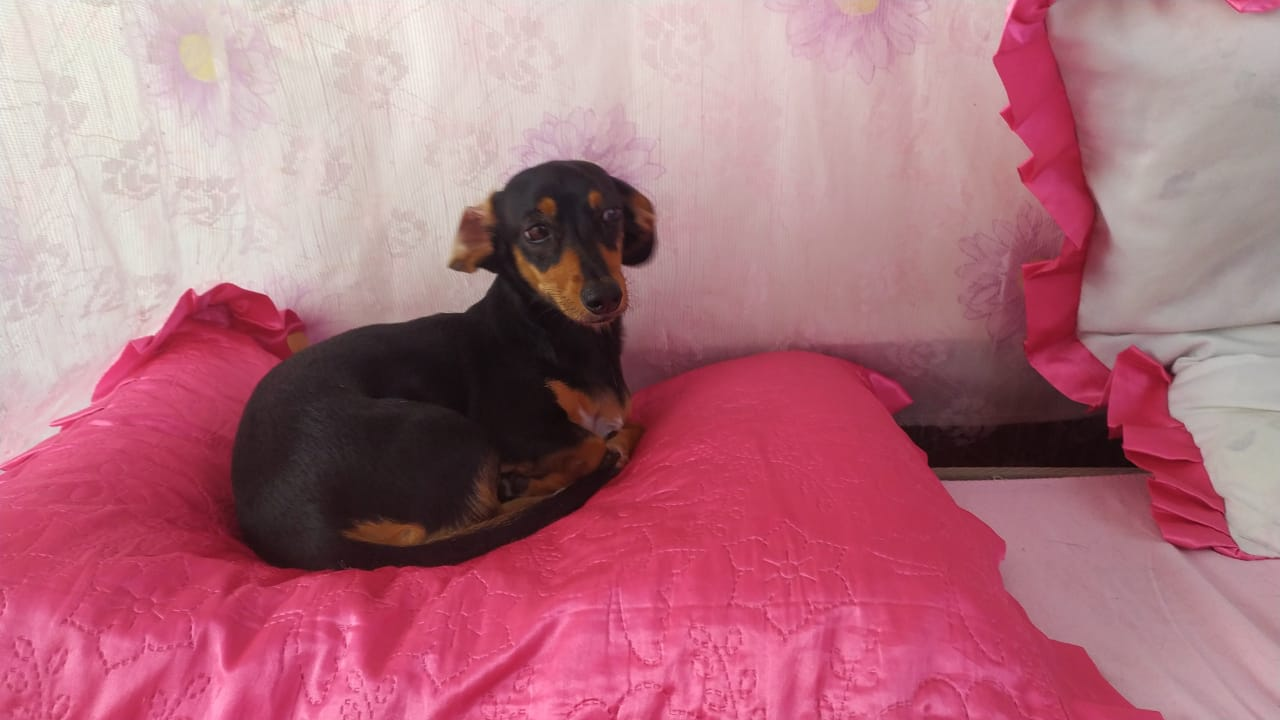
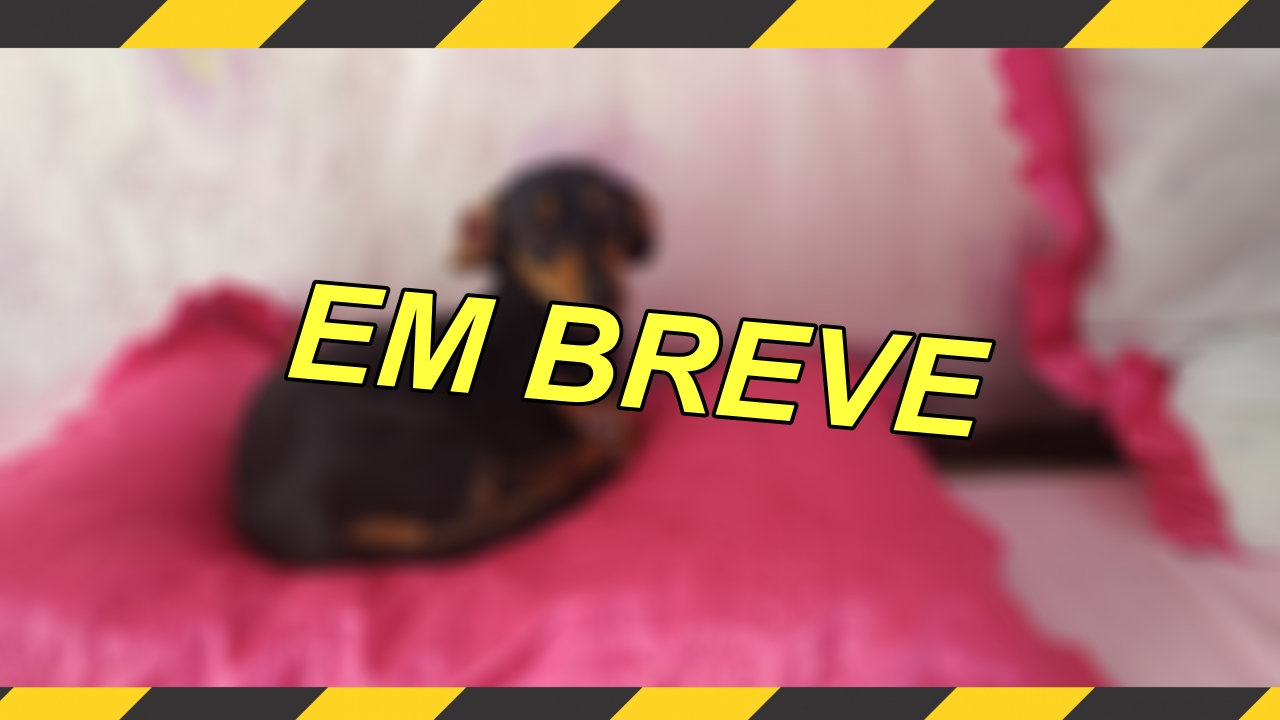
Atualização 3.0
Adicionado;

Nova imagem para " EM BREVE "
Adicionado o media quere para tablets

diff --git a/index.html b/index.html
@@ -18,28 +18,35 @@
         </ul>
     </nav>
     <section id="inicio">
-        <h1> Quem é Esdras Carneiro? </h1>
-        <p> Bem vindo ao meu site, meu nome é Esdras, tenho 16 anos, sou de Conceição do Coité - BA, e sou estudante do
-            2° ano do ensino médio. </p>
-        <p class="seg-p">No entanto, estudo desenvolvimento de software, meu primeiro contato com programação foi com LUA, que começou por diversão e acabei tomando gosto pela área e atualmente estudo desenvolvimento web. </p>
+        <article>
+            <h1> Quem é Esdras Carneiro? </h1>
+            <p> Bem vindo ao meu site, meu nome é Esdras, tenho 16 anos, sou de Conceição do Coité - BA, e sou estudante
+                do 2° ano do ensino médio. </p>
+            <p class="seg-p">No entanto, estudo desenvolvimento de software, meu primeiro contato com programação foi
+                com LUA, que começou por diversão e acabei tomando gosto pela área e atualmente estudo desenvolvimento
+                web. </p>
+        </article>
         <img src="assets/esdras-picture.png" alt="Rosto de Esdras Carneiro">
     </section>
     <section id="projetos">
         <h2> Projetos </h2>
-        <article class="projeto">
-            <img src="assets/Quis.jpg" alt="projeto 1">
-            <h3> Projeto 1 </h3>
-            <p>Lorem ipsum dolor sit amet consectetur adipisicing elit. Culpa, corporis? Consequuntur praesentium,
-                dignissimos voluptatibus, ex ab alias fugiat ducimus molestiae nulla unde blanditiis dolore tempore
-                laborum similique laboriosam doloremque amet!</p>
-        </article>
-        <article class="projeto">
-            <img src="assets/Quis.jpg" alt="projeto 2">
-            <h3> Projeto 2 </h3>
-            <p>Lorem ipsum dolor sit amet consectetur adipisicing elit. Quod quibusdam porro nulla vel minima, placeat
-                eius corporis earum molestiae ab doloribus neque quasi blanditiis in quas iste, eaque, mollitia enim?
-            </p>
-        </article>
+        <div id="container-projetos">
+            <article class="projeto">
+                <img src="assets/Quis.jpg" alt="projeto 1">
+                <h3> Projeto 1</h3>
+                <p> Lorem ipsum dolor sit amet consectetur adipisicing elit. Quod quibusdam porro nulla vel minima,
+                    placeateius corporis earum molestiae ab doloribus neque quasi blanditiis in quas iste, eaque,
+                    mollitia enim?</p>
+            </article>
+            <article class="projeto">
+                <img src="assets/Quis.jpg" alt="projeto 2">
+                <h3> Projeto 2 </h3>
+                <p>Lorem ipsum dolor sit amet consectetur adipisicing elit. Quod quibusdam porro nulla vel minima,
+                    placeateius corporis earum molestiae ab doloribus neque quasi blanditiis in quas iste, eaque,
+                    mollitia enim?
+                </p>
+            </article>
+        </div>
     </section>
     <section id="redes">
         <h2> Redes Sociais </h2>
@@ -48,7 +55,8 @@
                 <li> <img class="icone" src="assets/github.png"> <strong>Git Hub:</strong> <a
                         href="https://github.com/EsdrasAslc" target="_blank"> @EsdrasAslc</a> </li>
                 <li> <img class="icone" src="assets/linkedin.png"> <strong>Linkedin:</strong> <a
-                        href="https://www.linkedin.com/in/esdras-carneiro-3a7800210/" target="_blank"> @Esdras Carneiro</a></li>
+                        href="https://www.linkedin.com/in/esdras-carneiro-3a7800210/" target="_blank"> @Esdras
+                        Carneiro</a></li>
             </ul>
             <ul>
                 <li> <img class="icone" src="assets/twitter.png"> <strong> Twitter: </strong><a
@@ -64,7 +72,8 @@
     </section>
     <footer id="footer">
         <h3>Feito com &#10084; por <strong>Esdras Carneiro</strong></h3>
-        <div>Ícones feitos por <a href="https://icon54.com/" title="Pixel perfect">Pixel perfect  </a> from <a href="https://www.flaticon.com/br/" target="_blank" title="Flaticon">www.flaticon.com</a></div>
+        <div>Ícones feitos por <a href="https://icon54.com/" title="Pixel perfect">Pixel perfect </a> from <a
+                href="https://www.flaticon.com/br/" target="_blank" title="Flaticon">www.flaticon.com</a></div>
     </footer>
 </body>
 
@@ -75,10 +84,6 @@
 
 
 <!--
-
-    <div>Ícones feitos por <a href="https://icon54.com/" title="Pixel perfect">Pixel perfect</a> from <a href="https://www.flaticon.com/br/" title="Flaticon">www.flaticon.com</a></div>
-    W
-    V
     PROJETOS
 <section>
     <article>

diff --git a/assets/styles.css b/assets/styles.css
@@ -130,7 +130,7 @@ body {
 
 /* Celular media */
 
-    @media all and (max-width: 415px) {
+    @media all and (max-width: 767px) {
    
     /* Nav Bar */
 
@@ -243,3 +243,137 @@ body {
         text-align: center;
     }
 }
+
+/* Tablet & Celular grandes*/
+    @media all and (min-width: 768px) and (max-width: 1024px) {
+
+        /* Nav Bar */
+
+        #navbar ul {
+            display: flex;
+            justify-content: space-evenly;
+            padding: 2rem 0 2rem;
+        }
+
+        #navbar a {
+            font-size: 1.7rem;
+            padding: 2rem 1.25rem 2rem ;
+        }
+
+        #navbar a:hover {
+            background-color: rgba(102, 102, 102, 0.445);
+            transition: all 300ms ease-in-out;
+        }
+
+        /* Apresentação */
+
+        #inicio {
+            margin: 3.5rem;
+            display: flex;
+            flex-direction: row;
+            justify-content: flex-start;
+        }
+
+        #inicio h1 {
+            font-size: 3.5rem;
+        }
+
+        #inicio p {
+            margin-top: 4.5rem;
+            font-size: 2rem;
+            margin-bottom: 2.5rem;
+            max-width: 450px;
+        }
+
+        #inicio .seg-p {
+            margin-top:2.5rem;
+            font-size: 1.8rem;
+        }
+
+        #inicio img {
+            margin:auto;
+            max-width: 40%;
+            height: 50%;
+            padding: 1rem;
+        }
+
+        /* PROJETOS */
+
+        #projetos h2 {
+            display: block;
+            padding-top: 3.5rem;
+            margin: 3.5rem;
+            text-align: center;
+            margin-top: 0rem;
+        }
+
+        #container-projetos {
+            display: flex;
+            flex-flow: wrap row;
+            justify-content: center;
+        }
+
+        #container-projetos .projeto {
+            flex: 1 0 256px;
+            display: flex;
+            flex-direction: column;
+            margin: 0 1rem;
+            padding: 2rem;
+        }
+
+        #container-projetos .projeto h3 {
+            text-align: center;
+            margin: 2.5rem;
+            font-size: 2.3rem;
+        }
+
+        #container-projetos .projeto img {
+            width: 40rem;
+            margin: auto;
+        }
+
+        #container-projetos .projeto p {
+            padding-bottom: 3.75rem;
+        }
+
+        /* REDES SOCIAIS */
+
+        #redes h2 {
+            display: block;
+            padding-top: 3.5rem;
+            margin: 3.5rem;
+            text-align: center;
+            margin-top: 0rem;
+        }
+
+        #redes article {
+            display: flex;
+            flex-direction: row;
+            justify-content: center;
+            font-size: 2rem;
+        }
+
+        #redes article ul  {
+            display: flex;
+            flex-direction: column;
+            margin: 2.5rem;
+        }
+
+        #redes .icone {
+            max-width: 2rem;
+        }
+
+        #redes .email h3 {
+            padding-right: 1rem;
+        }
+
+        #redes .email {
+            padding-bottom: 2.7rem;
+        }
+
+        /* FOOTER */
+
+       #footer {
+           text-align: center;
+       }
+    }
